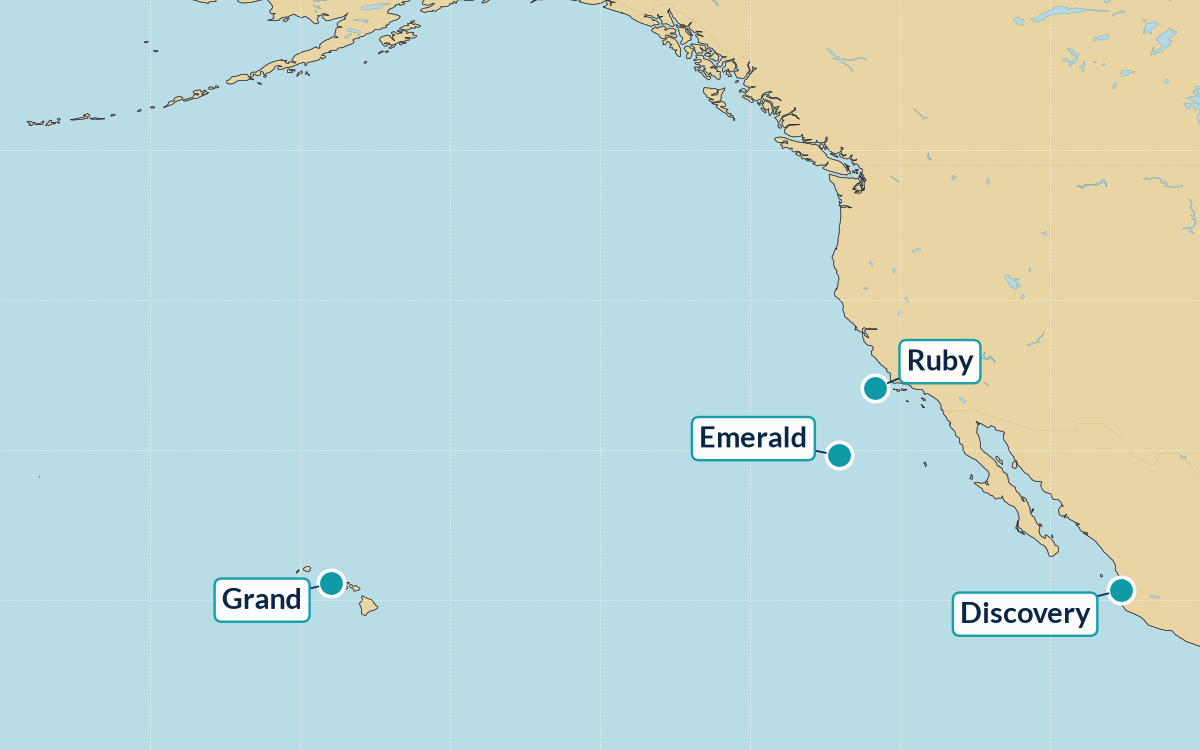
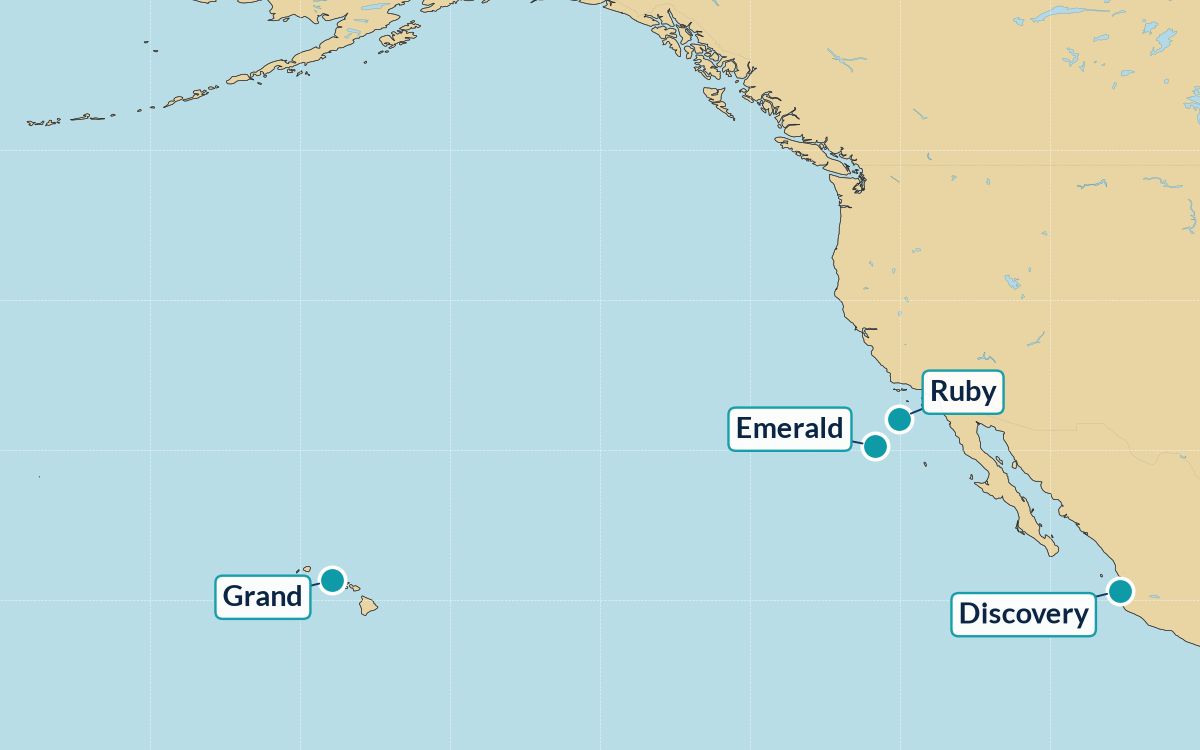
Update 10/14 16:17 PT

Changed region(s): [[0.555, 0.4293, 0.8633, 0.644], [0.7708, 0.7667, 0.9558, 0.8587], [0.1542, 0.736, 0.3083, 0.828]]

diff --git a/index.html b/index.html
@@ -1,44 +1,45 @@
 <!DOCTYPE html><html lang="en"><head><meta charset="utf-8"><meta name="viewport" content="width=device-width, initial-scale=1"><meta http-equiv="refresh" content="1800"><meta name="description" content="Live Princess Cruises fleet tracker"><title>Princess Patter — Wednesday, October 14, 2026</title></head>
 <body style="margin:0;padding:0;background-color:#dee2e8;">
-<div style="display:none;max-height:0;overflow:hidden;opacity:0;color:#dee2e8;font-size:1px;line-height:1px;">Wednesday, October 14, 2026 — 7:49am PT | 17 ships | 10 at sea, 7 in port</div>
+<div style="display:none;max-height:0;overflow:hidden;opacity:0;color:#dee2e8;font-size:1px;line-height:1px;">Wednesday, October 14, 2026 — 3:48pm PT | 17 ships | 14 at sea, 3 in port</div>
 <table role="presentation" width="100%" cellpadding="0" cellspacing="0" border="0" bgcolor="#dee2e8" style="background-color:#dee2e8;border-collapse:collapse;"><tr><td align="center" style="padding:16px 8px;">
 <table role="presentation" width="100%" cellpadding="0" cellspacing="0" border="0" bgcolor="#fdfdfb" style="width:100%;max-width:900px;background-color:#fdfdfb;border-collapse:collapse;border:1px solid #d6dae0;">
 <tr><td bgcolor="#1d3a6b" align="left" style="background-color:#1d3a6b;padding:24px 28px 24px 28px;"><div style="font-family:Georgia, 'Times New Roman', Times, serif;font-size:40px;line-height:46px;color:#ffffff;letter-spacing:0.5px;"><span style="color:#a8b6e2;">≋</span>&nbsp;Princess Patter</div></td></tr>
-<tr><td style="padding:0;"><table role="presentation" width="100%" cellpadding="0" cellspacing="0" border="0" style="border-collapse:collapse;"><tr><td height="5" bgcolor="#6a5aa8" style="background-color:#6a5aa8;height:5px;font-size:0;line-height:0;width:60%;">&nbsp;</td><td height="5" bgcolor="#2f6db5" style="background-color:#2f6db5;height:5px;font-size:0;line-height:0;width:40%;">&nbsp;</td></tr></table></td></tr><tr><td bgcolor="#1d3a6b" style="background:linear-gradient(#1d3a6b,#2f6db5);padding:10px 16px 14px;text-align:center;"><img src="regal.png?v=202610141518" alt="Regal Princess" style="width:100%;max-width:640px;height:auto;display:block;margin:0 auto;"></td></tr>
+<tr><td style="padding:0;"><table role="presentation" width="100%" cellpadding="0" cellspacing="0" border="0" style="border-collapse:collapse;"><tr><td height="5" bgcolor="#6a5aa8" style="background-color:#6a5aa8;height:5px;font-size:0;line-height:0;width:60%;">&nbsp;</td><td height="5" bgcolor="#2f6db5" style="background-color:#2f6db5;height:5px;font-size:0;line-height:0;width:40%;">&nbsp;</td></tr></table></td></tr><tr><td bgcolor="#1d3a6b" style="background:linear-gradient(#1d3a6b,#2f6db5);padding:10px 16px 14px;text-align:center;"><img src="regal.png?v=202610141617" alt="Regal Princess" style="width:100%;max-width:640px;height:auto;display:block;margin:0 auto;"></td></tr>
 <tr><td style="padding:22px 20px 6px 20px;">
-<div style="font-family:Georgia, 'Times New Roman', Times, serif;font-style:italic;font-size:20px;line-height:26px;color:#2f6db5;">Good morning!</div>
+<div style="font-family:Georgia, 'Times New Roman', Times, serif;font-style:italic;font-size:20px;line-height:26px;color:#2f6db5;">Good afternoon!</div>
 <div style="font-family:Georgia, 'Times New Roman', Times, serif;font-weight:bold;font-size:26px;line-height:32px;color:#1d3a6b;padding-top:6px;">Wednesday, October 14, 2026</div>
-<div style="font-family:Helvetica, Arial, sans-serif;font-size:16px;line-height:22px;color:#2f6db5;padding-top:4px;">7:49am PT | 17 ships | 10 at sea, 7 in port</div>
-</td></tr><tr><td style="padding:14px 20px 0 20px;"><div style="font-family:Georgia, 'Times New Roman', Times, serif;font-style:italic;font-weight:bold;font-size:18px;color:#295aa0;padding:0 4px 4px;border-bottom:1px solid #295aa0;">pacific map</div><a href="map.png?v=202610141518"><img src="map.png?v=202610141518" alt="Pacific fleet map" style="width:100%;height:auto;display:block;margin-top:8px;border-radius:12px;border:2px solid #c8dee2;"></a></td></tr>
+<div style="font-family:Helvetica, Arial, sans-serif;font-size:16px;line-height:22px;color:#2f6db5;padding-top:4px;">3:48pm PT | 17 ships | 14 at sea, 3 in port</div>
+</td></tr><tr><td style="padding:14px 20px 0 20px;"><div style="font-family:Georgia, 'Times New Roman', Times, serif;font-style:italic;font-weight:bold;font-size:18px;color:#295aa0;padding:0 4px 4px;border-bottom:1px solid #295aa0;">pacific map</div><a href="map.png?v=202610141617"><img src="map.png?v=202610141617" alt="Pacific fleet map" style="width:100%;height:auto;display:block;margin-top:8px;border-radius:12px;border:2px solid #c8dee2;"></a></td></tr>
 <tr><td style="padding:14px 20px 4px 20px;">
 <table role="presentation" width="100%" cellpadding="0" cellspacing="0" border="0" style="border-collapse:collapse;width:100%;font-family:Helvetica, Arial, sans-serif;font-size:15px;line-height:20px;color:#262c38;">
 <tr bgcolor="#2f6db5" style="background-color:#2f6db5;"><td style="font-size:14px;line-height:18px;font-weight:bold;color:#ffffff;text-align:left;padding:9px 8px;padding-left:10px;" colspan="2">Ship</td><td style="font-size:14px;line-height:18px;font-weight:bold;color:#ffffff;text-align:left;padding:9px 8px;">Where</td><td style="font-size:14px;line-height:18px;font-weight:bold;color:#ffffff;text-align:left;padding:9px 8px;">Next Port</td></tr>
 <tr><td colspan="4" style="padding:14px 4px 4px 4px;border-bottom:1px solid #295aa0;font-family:Georgia, 'Times New Roman', Times, serif;font-style:italic;font-weight:bold;font-size:18px;line-height:22px;color:#295aa0;">canada &amp; new england</td></tr>
 <tr bgcolor="#eef0f3" style="background-color:#eef0f3;"><td width="18" style="padding:7px 0 7px 8px;vertical-align:top;width:18px;color:#1a9a9a;font-size:18px;">&nbsp;</td><td style="padding:7px 8px;vertical-align:top;"><b style="color:#1d3a6b;">Majestic</b></td><td style="padding:7px 8px;vertical-align:top;">At Sea</td><td style="padding:7px 8px;vertical-align:top;">Halifax <span style="font-size:13px;color:#707884;">(10/15 5am)</span></td></tr>
-<tr bgcolor="#ffffff" style="background-color:#ffffff;"><td width="18" style="padding:7px 0 7px 8px;vertical-align:top;width:18px;color:#1a9a9a;font-size:18px;">&nbsp;</td><td style="padding:7px 8px;vertical-align:top;"><b style="color:#1d3a6b;">Sapphire</b></td><td style="padding:7px 8px;vertical-align:top;">Portland <span style="font-size:13px;color:#707884;">(1pm)</span></td><td style="padding:7px 8px;vertical-align:top;">Saint John <span style="font-size:13px;color:#707884;">(10/15 5am)</span></td></tr>
+<tr bgcolor="#ffffff" style="background-color:#ffffff;"><td width="18" style="padding:7px 0 7px 8px;vertical-align:top;width:18px;color:#1a9a9a;font-size:18px;">&nbsp;</td><td style="padding:7px 8px;vertical-align:top;"><b style="color:#1d3a6b;">Sapphire</b></td><td style="padding:7px 8px;vertical-align:top;">At Sea</td><td style="padding:7px 8px;vertical-align:top;">Saint John <span style="font-size:13px;color:#707884;">(10/15 5am)</span></td></tr>
 <tr><td colspan="4" style="padding:14px 4px 4px 4px;border-bottom:1px solid #295aa0;font-family:Georgia, 'Times New Roman', Times, serif;font-style:italic;font-weight:bold;font-size:18px;line-height:22px;color:#295aa0;">caribbean</td></tr>
 <tr bgcolor="#eef0f3" style="background-color:#eef0f3;"><td width="18" style="padding:7px 0 7px 8px;vertical-align:top;width:18px;color:#1a9a9a;font-size:18px;">&nbsp;</td><td style="padding:7px 8px;vertical-align:top;"><b style="color:#1d3a6b;">Caribbean</b></td><td style="padding:7px 8px;vertical-align:top;">At Sea</td><td style="padding:7px 8px;vertical-align:top;">Amber Cove <span style="font-size:13px;color:#707884;">(10/15 5am)</span></td></tr>
 <tr bgcolor="#ffffff" style="background-color:#ffffff;"><td width="18" style="padding:7px 0 7px 8px;vertical-align:top;width:18px;color:#1a9a9a;font-size:18px;">&nbsp;</td><td style="padding:7px 8px;vertical-align:top;"><b style="color:#1d3a6b;">Coral</b></td><td style="padding:7px 8px;vertical-align:top;">At Sea</td><td style="padding:7px 8px;vertical-align:top;">Fort Lauderdale <span style="font-size:13px;color:#707884;">(10/15 4am)</span></td></tr>
-<tr bgcolor="#eef0f3" style="background-color:#eef0f3;"><td width="18" style="padding:7px 0 7px 8px;vertical-align:top;width:18px;color:#1a9a9a;font-size:18px;">&nbsp;</td><td style="padding:7px 8px;vertical-align:top;"><b style="color:#1d3a6b;">Regal</b></td><td style="padding:7px 8px;vertical-align:top;">Grand Turk <span style="font-size:13px;color:#707884;">(2pm)</span></td><td style="padding:7px 8px;vertical-align:top;">Nassau <span style="font-size:13px;color:#707884;">(10/16 5am)</span></td></tr>
+<tr bgcolor="#eef0f3" style="background-color:#eef0f3;"><td width="18" style="padding:7px 0 7px 8px;vertical-align:top;width:18px;color:#1a9a9a;font-size:18px;">&nbsp;</td><td style="padding:7px 8px;vertical-align:top;"><b style="color:#1d3a6b;">Regal</b></td><td style="padding:7px 8px;vertical-align:top;">At Sea</td><td style="padding:7px 8px;vertical-align:top;">Nassau <span style="font-size:13px;color:#707884;">(10/16 5am)</span></td></tr>
 <tr><td colspan="4" style="padding:14px 4px 4px 4px;border-bottom:1px solid #295aa0;font-family:Georgia, 'Times New Roman', Times, serif;font-style:italic;font-weight:bold;font-size:18px;line-height:22px;color:#295aa0;">hawaii</td></tr>
 <tr bgcolor="#eef0f3" style="background-color:#eef0f3;"><td width="18" style="padding:7px 0 7px 8px;vertical-align:top;width:18px;color:#1a9a9a;font-size:18px;">&nbsp;</td><td style="padding:7px 8px;vertical-align:top;"><b style="color:#1d3a6b;">Emerald</b></td><td style="padding:7px 8px;vertical-align:top;">At Sea</td><td style="padding:7px 8px;vertical-align:top;">Ensenada <span style="font-size:13px;color:#707884;">(10/15 12pm)</span></td></tr>
-<tr bgcolor="#ffffff" style="background-color:#ffffff;"><td width="18" style="padding:7px 0 7px 8px;vertical-align:top;width:18px;color:#1a9a9a;font-size:18px;">&nbsp;</td><td style="padding:7px 8px;vertical-align:top;"><b style="color:#1d3a6b;">Grand</b></td><td style="padding:7px 8px;vertical-align:top;">At Sea</td><td style="padding:7px 8px;vertical-align:top;">Honolulu <span style="font-size:13px;color:#707884;">(10/14 10am)</span></td></tr>
+<tr bgcolor="#ffffff" style="background-color:#ffffff;"><td width="18" style="padding:7px 0 7px 8px;vertical-align:top;width:18px;color:#1a9a9a;font-size:18px;">&nbsp;</td><td style="padding:7px 8px;vertical-align:top;"><b style="color:#1d3a6b;">Grand</b></td><td style="padding:7px 8px;vertical-align:top;">Honolulu <span style="font-size:13px;color:#707884;">(10/15 2am)</span></td><td style="padding:7px 8px;vertical-align:top;">Apia <span style="font-size:13px;color:#707884;">(10/20 12pm)</span></td></tr>
 <tr><td colspan="4" style="padding:14px 4px 4px 4px;border-bottom:1px solid #295aa0;font-family:Georgia, 'Times New Roman', Times, serif;font-style:italic;font-weight:bold;font-size:18px;line-height:22px;color:#295aa0;">mexican riviera</td></tr>
-<tr bgcolor="#eef0f3" style="background-color:#eef0f3;"><td width="18" style="padding:7px 0 7px 8px;vertical-align:top;width:18px;color:#1a9a9a;font-size:18px;">&nbsp;</td><td style="padding:7px 8px;vertical-align:top;"><b style="color:#1d3a6b;">Discovery</b></td><td style="padding:7px 8px;vertical-align:top;">Puerto Vallarta <span style="font-size:13px;color:#707884;">(3pm)</span></td><td style="padding:7px 8px;vertical-align:top;">Los Angeles <span style="font-size:13px;color:#707884;">(10/17 6:15am)</span></td></tr>
+<tr bgcolor="#eef0f3" style="background-color:#eef0f3;"><td width="18" style="padding:7px 0 7px 8px;vertical-align:top;width:18px;color:#1a9a9a;font-size:18px;">&nbsp;</td><td style="padding:7px 8px;vertical-align:top;"><b style="color:#1d3a6b;">Discovery</b></td><td style="padding:7px 8px;vertical-align:top;">At Sea</td><td style="padding:7px 8px;vertical-align:top;">Los Angeles <span style="font-size:13px;color:#707884;">(10/17 6:15am)</span></td></tr>
 <tr bgcolor="#ffffff" style="background-color:#ffffff;"><td width="18" style="padding:7px 0 7px 8px;vertical-align:top;width:18px;color:#1a9a9a;font-size:18px;">&nbsp;</td><td style="padding:7px 8px;vertical-align:top;"><b style="color:#1d3a6b;">Ruby</b></td><td style="padding:7px 8px;vertical-align:top;">At Sea</td><td style="padding:7px 8px;vertical-align:top;">Puerto Vallarta <span style="font-size:13px;color:#707884;">(10/17 7am)</span></td></tr>
 <tr><td colspan="4" style="padding:14px 4px 4px 4px;border-bottom:1px solid #295aa0;font-family:Georgia, 'Times New Roman', Times, serif;font-style:italic;font-weight:bold;font-size:18px;line-height:22px;color:#295aa0;">panama canal</td></tr>
 <tr bgcolor="#eef0f3" style="background-color:#eef0f3;"><td width="18" style="padding:7px 0 7px 8px;vertical-align:top;width:18px;color:#1a9a9a;font-size:18px;">&nbsp;</td><td style="padding:7px 8px;vertical-align:top;"><b style="color:#1d3a6b;">Star</b></td><td style="padding:7px 8px;vertical-align:top;">Panama City <span style="font-size:13px;color:#707884;">(7pm)</span></td><td style="padding:7px 8px;vertical-align:top;">Panama Canal <span style="font-size:13px;color:#707884;">(10/15 4am)</span></td></tr>
-<tr><td colspan="4" style="padding:14px 4px 4px 4px;border-bottom:1px solid #295aa0;font-family:Georgia, 'Times New Roman', Times, serif;font-style:italic;font-weight:bold;font-size:18px;line-height:22px;color:#295aa0;">arctic</td></tr>
-<tr bgcolor="#eef0f3" style="background-color:#eef0f3;"><td width="18" style="padding:7px 0 7px 8px;vertical-align:top;width:18px;color:#1a9a9a;font-size:18px;">&nbsp;</td><td style="padding:7px 8px;vertical-align:top;"><b style="color:#1d3a6b;">Sky</b></td><td style="padding:7px 8px;vertical-align:top;">At Sea</td><td style="padding:7px 8px;vertical-align:top;">Tromso <span style="font-size:13px;color:#707884;">(10/15 12am)</span></td></tr>
 <tr><td colspan="4" style="padding:14px 4px 4px 4px;border-bottom:1px solid #295aa0;font-family:Georgia, 'Times New Roman', Times, serif;font-style:italic;font-weight:bold;font-size:18px;line-height:22px;color:#295aa0;">asia</td></tr>
-<tr bgcolor="#eef0f3" style="background-color:#eef0f3;"><td width="18" style="padding:7px 0 7px 8px;vertical-align:top;width:18px;color:#1a9a9a;font-size:18px;">&nbsp;</td><td style="padding:7px 8px;vertical-align:top;"><b style="color:#1d3a6b;">Diamond</b></td><td style="padding:7px 8px;vertical-align:top;">At Sea</td><td style="padding:7px 8px;vertical-align:top;">Sakaiminato <span style="font-size:13px;color:#707884;">(10/14 3pm)</span></td></tr>
+<tr bgcolor="#eef0f3" style="background-color:#eef0f3;"><td width="18" style="padding:7px 0 7px 8px;vertical-align:top;width:18px;color:#1a9a9a;font-size:18px;">&nbsp;</td><td style="padding:7px 8px;vertical-align:top;"><b style="color:#1d3a6b;">Diamond</b></td><td style="padding:7px 8px;vertical-align:top;">Sakaiminato <span style="font-size:13px;color:#707884;">(10/15 12:30am)</span></td><td style="padding:7px 8px;vertical-align:top;">Busan <span style="font-size:13px;color:#707884;">(10/15 3pm)</span></td></tr>
 <tr bgcolor="#ffffff" style="background-color:#ffffff;"><td width="18" style="padding:7px 0 7px 8px;vertical-align:top;width:18px;color:#1a9a9a;font-size:18px;">&nbsp;</td><td style="padding:7px 8px;vertical-align:top;"><b style="color:#1d3a6b;">Royal</b></td><td style="padding:7px 8px;vertical-align:top;">At Sea</td><td style="padding:7px 8px;vertical-align:top;"><span style="color:#d6a214;" title="Maiden call">&#9733;</span>&nbsp;Singapore <span style="font-size:13px;color:#707884;">(10/15 2pm)</span> <span style="display:inline-block;font-size:10px;line-height:14px;font-weight:bold;letter-spacing:0.4px;color:#966c00;background-color:#fcf3d6;border:1px solid #d6a214;border-radius:8px;padding:0 5px;white-space:nowrap;">MAIDEN CALL</span></td></tr>
 <tr><td colspan="4" style="padding:14px 4px 4px 4px;border-bottom:1px solid #295aa0;font-family:Georgia, 'Times New Roman', Times, serif;font-style:italic;font-weight:bold;font-size:18px;line-height:22px;color:#295aa0;">australia &amp; new zealand</td></tr>
 <tr bgcolor="#eef0f3" style="background-color:#eef0f3;"><td width="18" style="padding:7px 0 7px 8px;vertical-align:top;width:18px;color:#1a9a9a;font-size:18px;">&nbsp;</td><td style="padding:7px 8px;vertical-align:top;"><b style="color:#1d3a6b;">Crown</b></td><td style="padding:7px 8px;vertical-align:top;">At Sea</td><td style="padding:7px 8px;vertical-align:top;">Albany <span style="font-size:13px;color:#707884;">(10/15 4pm)</span></td></tr>
 <tr><td colspan="4" style="padding:14px 4px 4px 4px;border-bottom:1px solid #295aa0;font-family:Georgia, 'Times New Roman', Times, serif;font-style:italic;font-weight:bold;font-size:18px;line-height:22px;color:#295aa0;">mediterranean</td></tr>
-<tr bgcolor="#eef0f3" style="background-color:#eef0f3;"><td width="18" style="padding:7px 0 7px 8px;vertical-align:top;width:18px;color:#1a9a9a;font-size:18px;">&nbsp;</td><td style="padding:7px 8px;vertical-align:top;"><b style="color:#1d3a6b;">Enchanted</b></td><td style="padding:7px 8px;vertical-align:top;">Salerno <span style="font-size:13px;color:#707884;">(9:30am)</span></td><td style="padding:7px 8px;vertical-align:top;">Santorini <span style="font-size:13px;color:#707884;">(10/15 11pm)</span></td></tr>
-<tr bgcolor="#ffffff" style="background-color:#ffffff;"><td width="18" style="padding:7px 0 7px 8px;vertical-align:top;width:18px;color:#1a9a9a;font-size:18px;">&nbsp;</td><td style="padding:7px 8px;vertical-align:top;"><b style="color:#1d3a6b;">Island</b></td><td style="padding:7px 8px;vertical-align:top;">Ponta Delgada <span style="font-size:13px;color:#707884;">(11am)</span></td><td style="padding:7px 8px;vertical-align:top;">Cadiz <span style="font-size:13px;color:#707884;">(10/16 11pm)</span></td></tr>
-<tr bgcolor="#eef0f3" style="background-color:#eef0f3;"><td width="18" style="padding:7px 0 7px 8px;vertical-align:top;width:18px;color:#1a9a9a;font-size:18px;">&nbsp;</td><td style="padding:7px 8px;vertical-align:top;"><b style="color:#1d3a6b;">Sun</b></td><td style="padding:7px 8px;vertical-align:top;">Ajaccio <span style="font-size:13px;color:#707884;">(8am)</span></td><td style="padding:7px 8px;vertical-align:top;">Genoa <span style="font-size:13px;color:#707884;">(10/14 11pm)</span></td></tr>
+<tr bgcolor="#eef0f3" style="background-color:#eef0f3;"><td width="18" style="padding:7px 0 7px 8px;vertical-align:top;width:18px;color:#1a9a9a;font-size:18px;">&nbsp;</td><td style="padding:7px 8px;vertical-align:top;"><b style="color:#1d3a6b;">Enchanted</b></td><td style="padding:7px 8px;vertical-align:top;">At Sea</td><td style="padding:7px 8px;vertical-align:top;">Santorini <span style="font-size:13px;color:#707884;">(10/15 11pm)</span></td></tr>
+<tr bgcolor="#ffffff" style="background-color:#ffffff;"><td width="18" style="padding:7px 0 7px 8px;vertical-align:top;width:18px;color:#1a9a9a;font-size:18px;">&nbsp;</td><td style="padding:7px 8px;vertical-align:top;"><b style="color:#1d3a6b;">Sun</b></td><td style="padding:7px 8px;vertical-align:top;">At Sea</td><td style="padding:7px 8px;vertical-align:top;">Genoa <span style="font-size:13px;color:#707884;">(10/14 11pm)</span></td></tr>
+<tr><td colspan="4" style="padding:14px 4px 4px 4px;border-bottom:1px solid #295aa0;font-family:Georgia, 'Times New Roman', Times, serif;font-style:italic;font-weight:bold;font-size:18px;line-height:22px;color:#295aa0;">northern europe</td></tr>
+<tr bgcolor="#eef0f3" style="background-color:#eef0f3;"><td width="18" style="padding:7px 0 7px 8px;vertical-align:top;width:18px;color:#1a9a9a;font-size:18px;">&nbsp;</td><td style="padding:7px 8px;vertical-align:top;"><b style="color:#1d3a6b;">Sky</b></td><td style="padding:7px 8px;vertical-align:top;">At Sea</td><td style="padding:7px 8px;vertical-align:top;">Kristiansand <span style="font-size:13px;color:#707884;">(~10/15)</span></td></tr>
+<tr><td colspan="4" style="padding:14px 4px 4px 4px;border-bottom:1px solid #295aa0;font-family:Georgia, 'Times New Roman', Times, serif;font-style:italic;font-weight:bold;font-size:18px;line-height:22px;color:#295aa0;">transatlantic</td></tr>
+<tr bgcolor="#eef0f3" style="background-color:#eef0f3;"><td width="18" style="padding:7px 0 7px 8px;vertical-align:top;width:18px;color:#1a9a9a;font-size:18px;">&nbsp;</td><td style="padding:7px 8px;vertical-align:top;"><b style="color:#1d3a6b;">Island</b></td><td style="padding:7px 8px;vertical-align:top;">At Sea</td><td style="padding:7px 8px;vertical-align:top;">Cadiz <span style="font-size:13px;color:#707884;">(10/16 11pm)</span></td></tr>
 </table>
 <div style="font-family:Helvetica, Arial, sans-serif;font-size:13px;line-height:18px;color:#707884;padding:8px 4px 0 4px;"><span style="color:#d6a214;">&#9733;</span> = maiden call (a ship’s first-ever visit to that port)<br>Maiden calls ahead: <b style="color:#966c00;">Royal – Singapore 10/15</b></div>
 </td></tr>
@@ -57,7 +58,7 @@
 <div style="font-size:14px;line-height:18px;font-weight:bold;color:#1d3a6b;padding-top:2px;">San Francisco, CA</div>
 <div style="font-size:13px;line-height:18px;color:#262c38;padding-top:2px;">Sunny</div>
 <div style="font-size:13px;line-height:18px;color:#707884;padding-top:2px;"><span style="white-space:nowrap;">H 71° /</span> <span style="white-space:nowrap;">L 53°</span></div>
-<div style="font-size:13px;line-height:18px;color:#707884;white-space:nowrap;">Now 71°</div>
+<div style="font-size:13px;line-height:18px;color:#707884;white-space:nowrap;">Now 69°</div>
 </td>
 <td width="25.00%" valign="top" style="width:25.00%;border-left:1px solid #c6ccd6;padding:10px 6px 6px 6px;text-align:center;vertical-align:top;font-family:Helvetica, Arial, sans-serif;">
 <div style="font-size:26px;line-height:32px;">🌧</div>
@@ -76,5 +77,5 @@
 </td>
 </tr></table></td></tr>
 <tr><td align="center" style="padding:22px 20px 6px 20px;font-family:Georgia, 'Times New Roman', Times, serif;font-style:italic;font-size:17px;line-height:24px;color:#295aa0;text-align:center;">“Bon voyage!”</td></tr>
-<tr><td align="center" style="padding:2px 20px 24px 20px;font-family:Helvetica, Arial, sans-serif;font-size:12px;line-height:18px;color:#707884;text-align:center;">Fleet positions from Pavlus AIS plus published schedules. Dates/times PT; ~ = AIS estimate.<br>Page updated 10/14/26 3:18pm PT after each fleet check-in.</td></tr>
+<tr><td align="center" style="padding:2px 20px 24px 20px;font-family:Helvetica, Arial, sans-serif;font-size:12px;line-height:18px;color:#707884;text-align:center;">Fleet positions from Pavlus AIS plus published schedules. Dates/times PT; ~ = AIS estimate.<br>Page updated 10/14/26 4:17pm PT after each fleet check-in.</td></tr>
 </table></td></tr></table></body></html>
